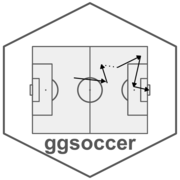
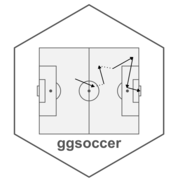
Built site for ggsoccer: 0.1.5.9000@f2d55dc

Changed region(s): [[0.0, 0.0, 1.0, 1.0]]

diff --git a/news/index.html b/news/index.html
@@ -127,6 +127,7 @@
 <a href="#ggsoccer-0-1-5-9000-in-progress" class="anchor"></a>ggsoccer 0.1.5.9000 (In progress)<small> Unreleased </small>
 </h1>
 <ul>
+<li>Make line widths consistent across all pitch elements</li>
 <li>Convert coordinates between different pitch specifications</li>
 <li>Add UEFA-standard pitch dimensions (<code>pitch_international</code>)</li>
 </ul>
